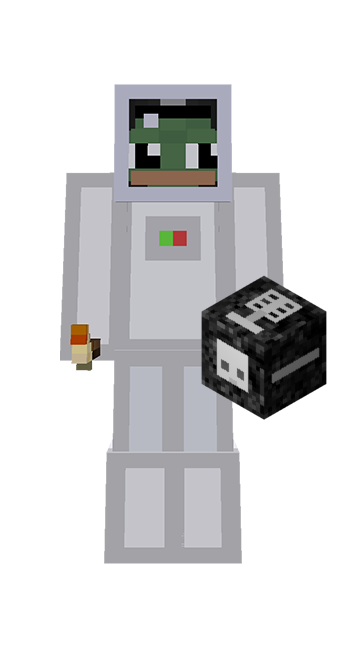
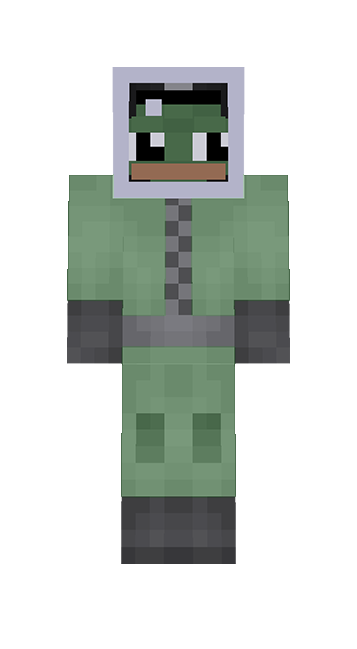
add images for green

diff --git a/src/components/layout/MainBorder.tsx b/src/components/layout/MainBorder.tsx
@@ -3,6 +3,7 @@ import { Box } from "@mui/material";
 import { useThemeContext } from "@/theme/themeProvider";
 import { useTheme } from "@mui/material/styles";
 import Particlesview from "./Particles";
+import { keyframes } from "@emotion/react";
 
 // Define the type for props
 interface MainBorderProps {
@@ -13,6 +14,36 @@ type CustomTheme = {
   activeSet: number;
   fancyMode: boolean; // Add fancyMode here
 };
+
+const throwIntoSpace = keyframes`
+  0% {
+    left: -30vw;
+    transform: rotate(0deg) translateY(-100px);
+    opacity: 0;
+  }
+
+  15% {
+    opacity: 0;
+  }
+
+  25% {
+    opacity: 100%;
+  }
+
+  50% {
+    transform: rotate(360deg) translateY(75px);
+  }
+
+  75%{
+    opacity: 100%;
+  }
+
+  100% {
+    left: 100vw;
+    transform: rotate(0deg) translateY(35px);
+        opacity: 0;
+  }
+`;
 
 const MainBorder: React.FC<MainBorderProps> = ({ containerId }) => {
   const { activeSet, fancyMode } = useThemeContext() as CustomTheme;
@@ -42,11 +73,21 @@ const MainBorder: React.FC<MainBorderProps> = ({ containerId }) => {
     5: "/static/images/pink-border-dark.png",
   };
 
+  const colorSetBgMapland: { [key: string]: string } = {
+    1: "/static/images/blue-land.webp",
+    2: "/static/images/green-land.webp",
+    3: "/static/images/yellow-land.webp",
+    4: "/static/images/orange-land.webp",
+    5: "/static/images/pink-land.webp",
+  };
+
   const imageBgSrc = colorSetBgMap[activeSet.toString()] || colorSetBgMap[1];
   const imageBgBorderSrc =
     colorSetBgBorderRight[activeSet.toString()] || colorSetBgBorderRight[1];
   const imageBgBorderDarkSrc =
     colorSetBgBorderDark[activeSet.toString()] || colorSetBgBorderDark[1];
+  const imageBgSrcland =
+    colorSetBgMapland[activeSet.toString()] || colorSetBgMapland[1];
 
   if (!fancyMode) {
     return null; // Or return an empty Box or null if you don't want to render anything
@@ -94,6 +135,21 @@ const MainBorder: React.FC<MainBorderProps> = ({ containerId }) => {
           left: 0,
           width: "100%",
           height: "100%",
+        })}
+      />
+
+      <Box
+        component={"img"}
+        alt="Logo"
+        src={imageBgSrcland}
+        sx={(theme) => ({
+          position: "absolute",
+          display: { md: "block", xs: "none" },
+          left: 0,
+          top: "30%", // Vertically center
+          transform: "translateY(-50%)", // Adjust to make sure it’s perfectly centered
+          width: "10rem",
+          animation: `${throwIntoSpace} 5s ease-out infinite` /* Apply the animation */,
         })}
       />
 

diff --git a/src/components/layout/home/TeamSection.tsx b/src/components/layout/home/TeamSection.tsx
@@ -45,35 +45,27 @@ const jumpAnimation = keyframes`
 const glitchEffect = keyframes`
   0% {
     opacity: 1;
-    clip-path: inset(0 0 0 0);
   }
   10% {
-    opacity: 0.8;
-    clip-path: inset(0 10% 0 0);
+    opacity: 0.7;
   }
   20% {
-    opacity: 0.7;
-    clip-path: inset(0 0 5px 0);
+    opacity: 0.6;
   }
   30% {
     opacity: 1;
-    clip-path: inset(10% 0 10% 0);
   }
   40% {
-    opacity: 0.9;
-    clip-path: inset(0 0 0 0);
+    opacity: 0.8;
   }
   50% {
-    opacity: 0.6;
-    clip-path: inset(0 5px 0 0);
+    opacity: 0.5;
   }
   60% {
-    opacity: 0.8;
-    clip-path: inset(0 0 5px 0);
+    opacity: 0.7;
   }
   100% {
     opacity: 1;
-    clip-path: inset(0 0 0 0);
   }
 `;
 
